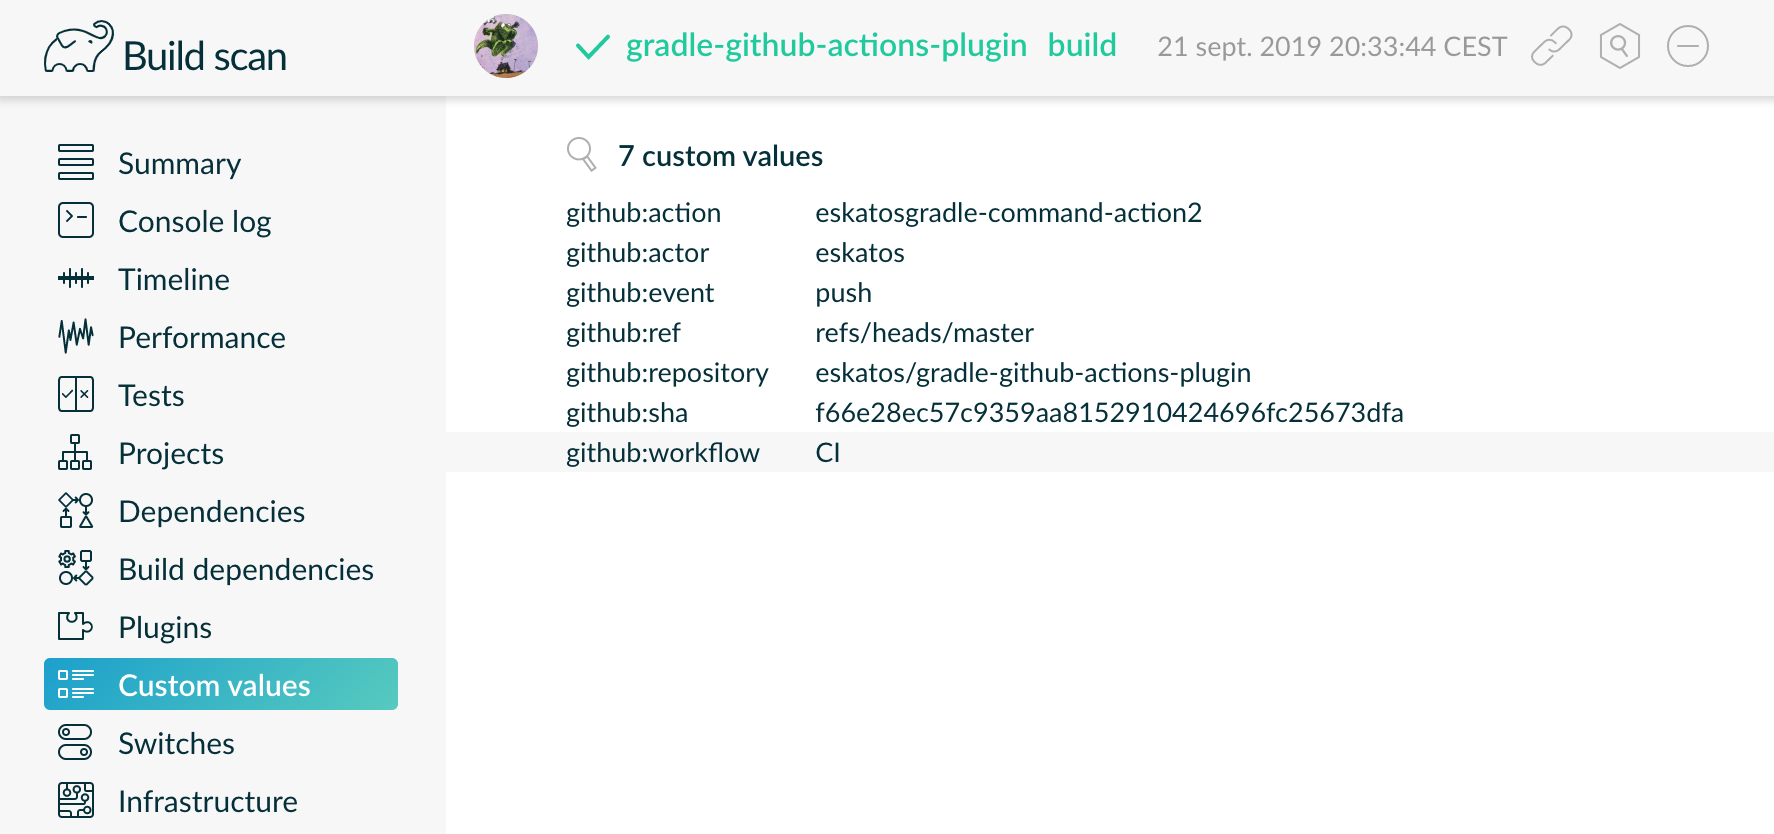
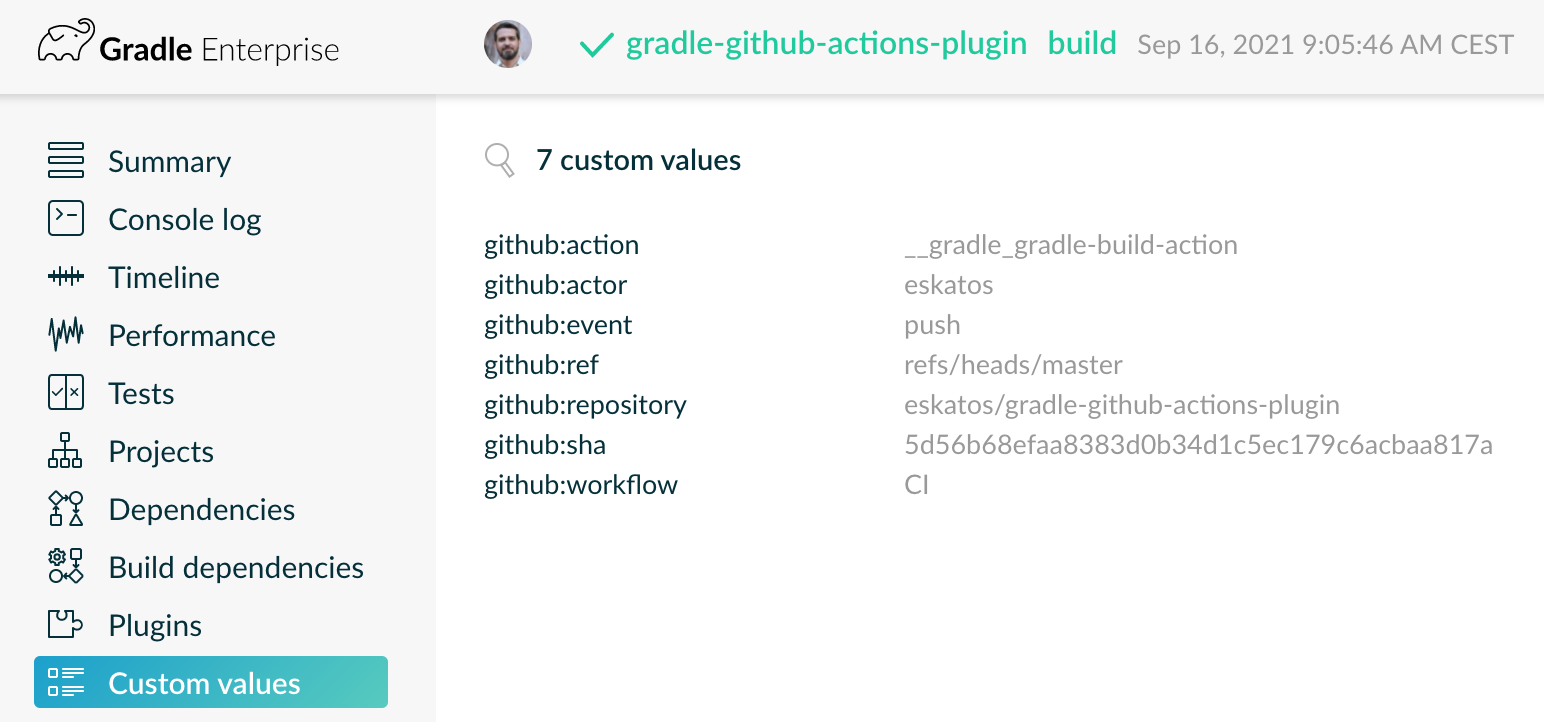
Update README and screenshots

diff --git a/README.md b/README.md
@@ -19,11 +19,11 @@ if (githubActions.running.get()) {
 }
 ```
 
-If you have the Gradle Enterprise or Gradle Build Scan plugin applied, or use `--scan`, your build scans will automatically be tagged `github:action` and have the following custom values attached:
+If you have the Gradle Enterprise or Gradle Build Scan plugin applied, or use `--scan`, your build scans will automatically be tagged `github:action`, have a link to the GitHub Action run and have the following custom values attached:
 
-![tag](src/docs/images/build-scan-tag.png "Build Scan tag")
+![tag](src/docs/images/build-scan-info.png "Build Scan info")
 
-![tag](src/docs/images/build-scan-values.png "Build Scan tag")
+![tag](src/docs/images/build-scan-values.png "Build Scan values")
 
 https://scans.gradle.com/s/o5bk2fu3zwm3y
 
